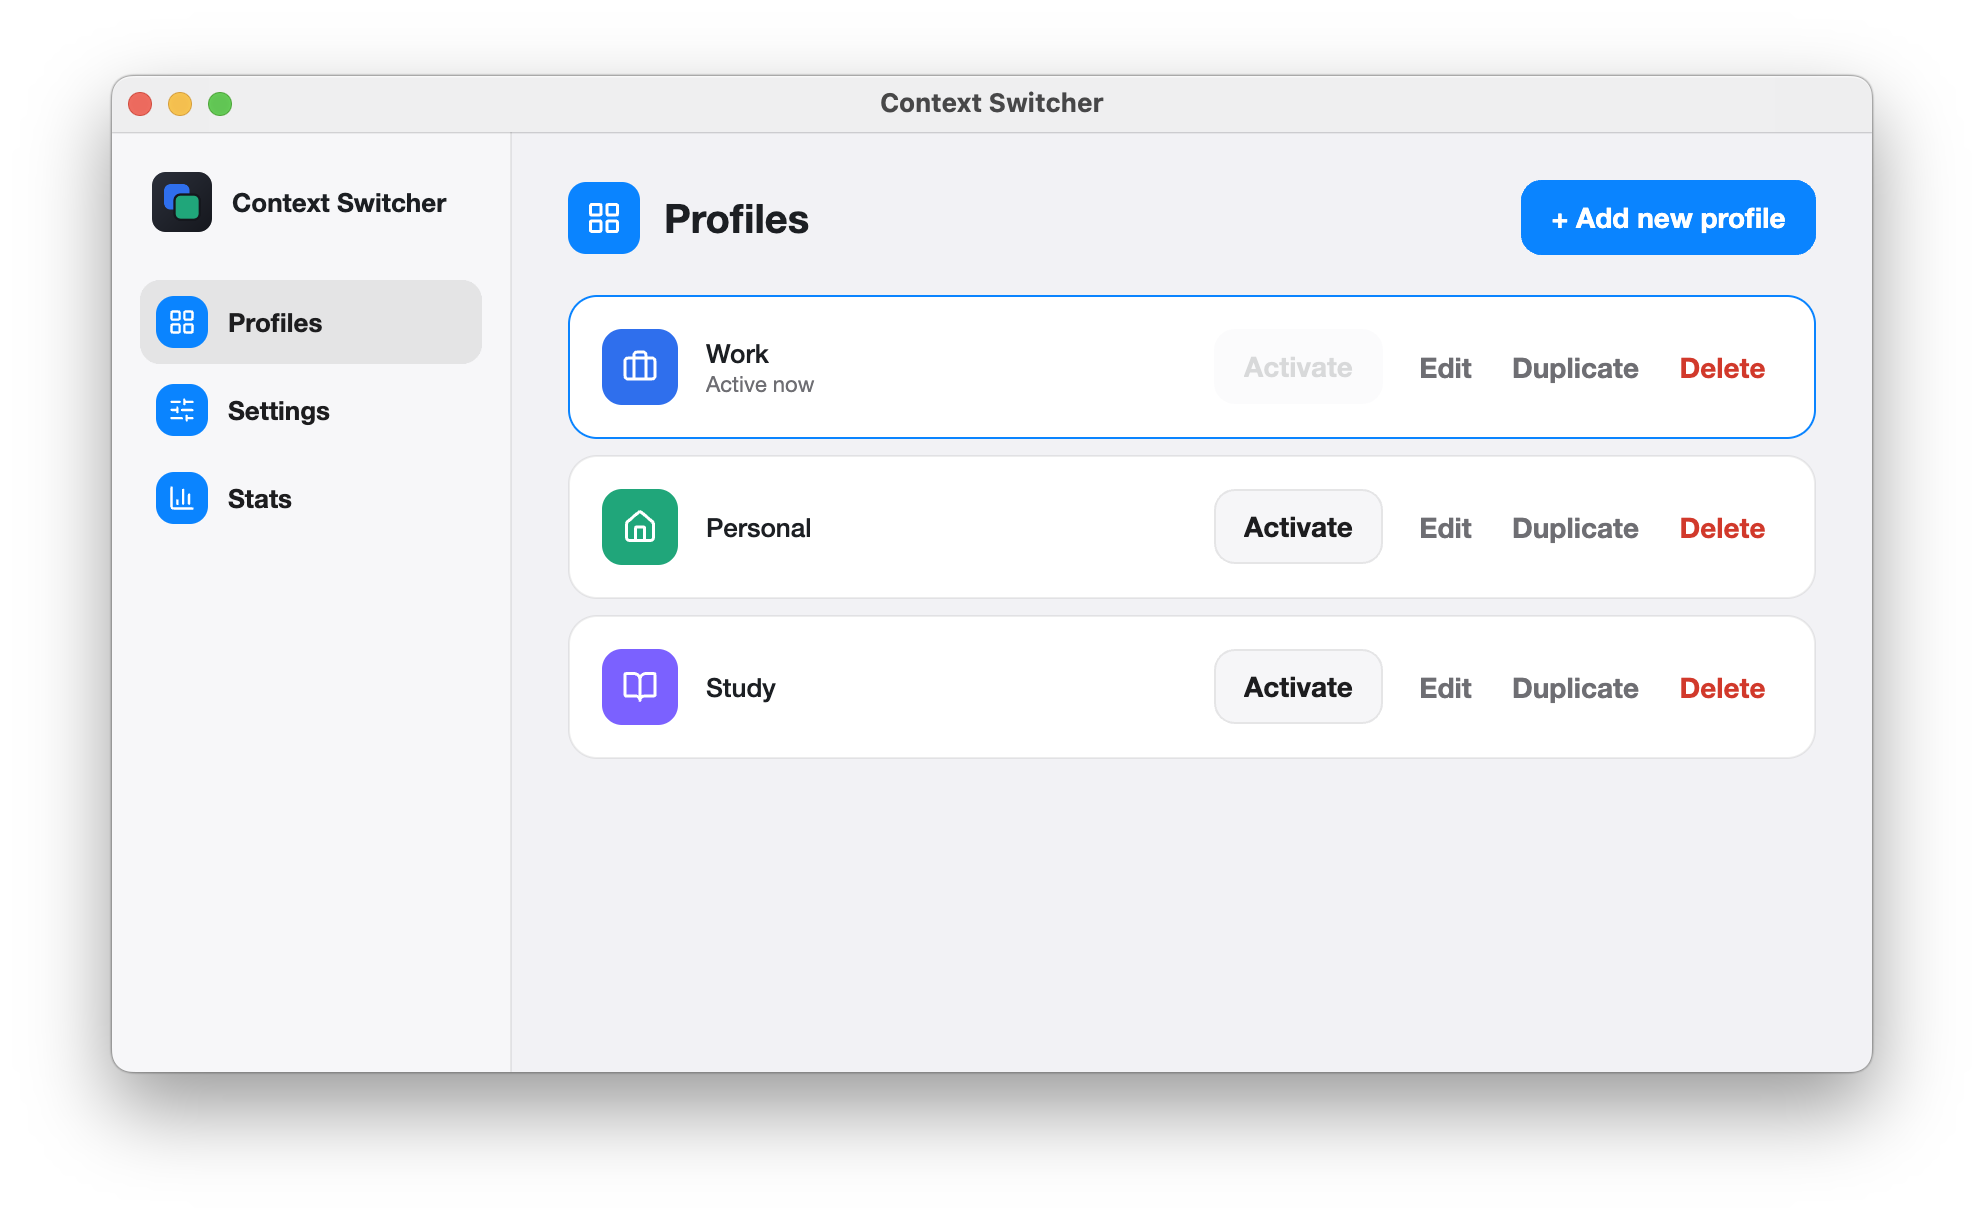
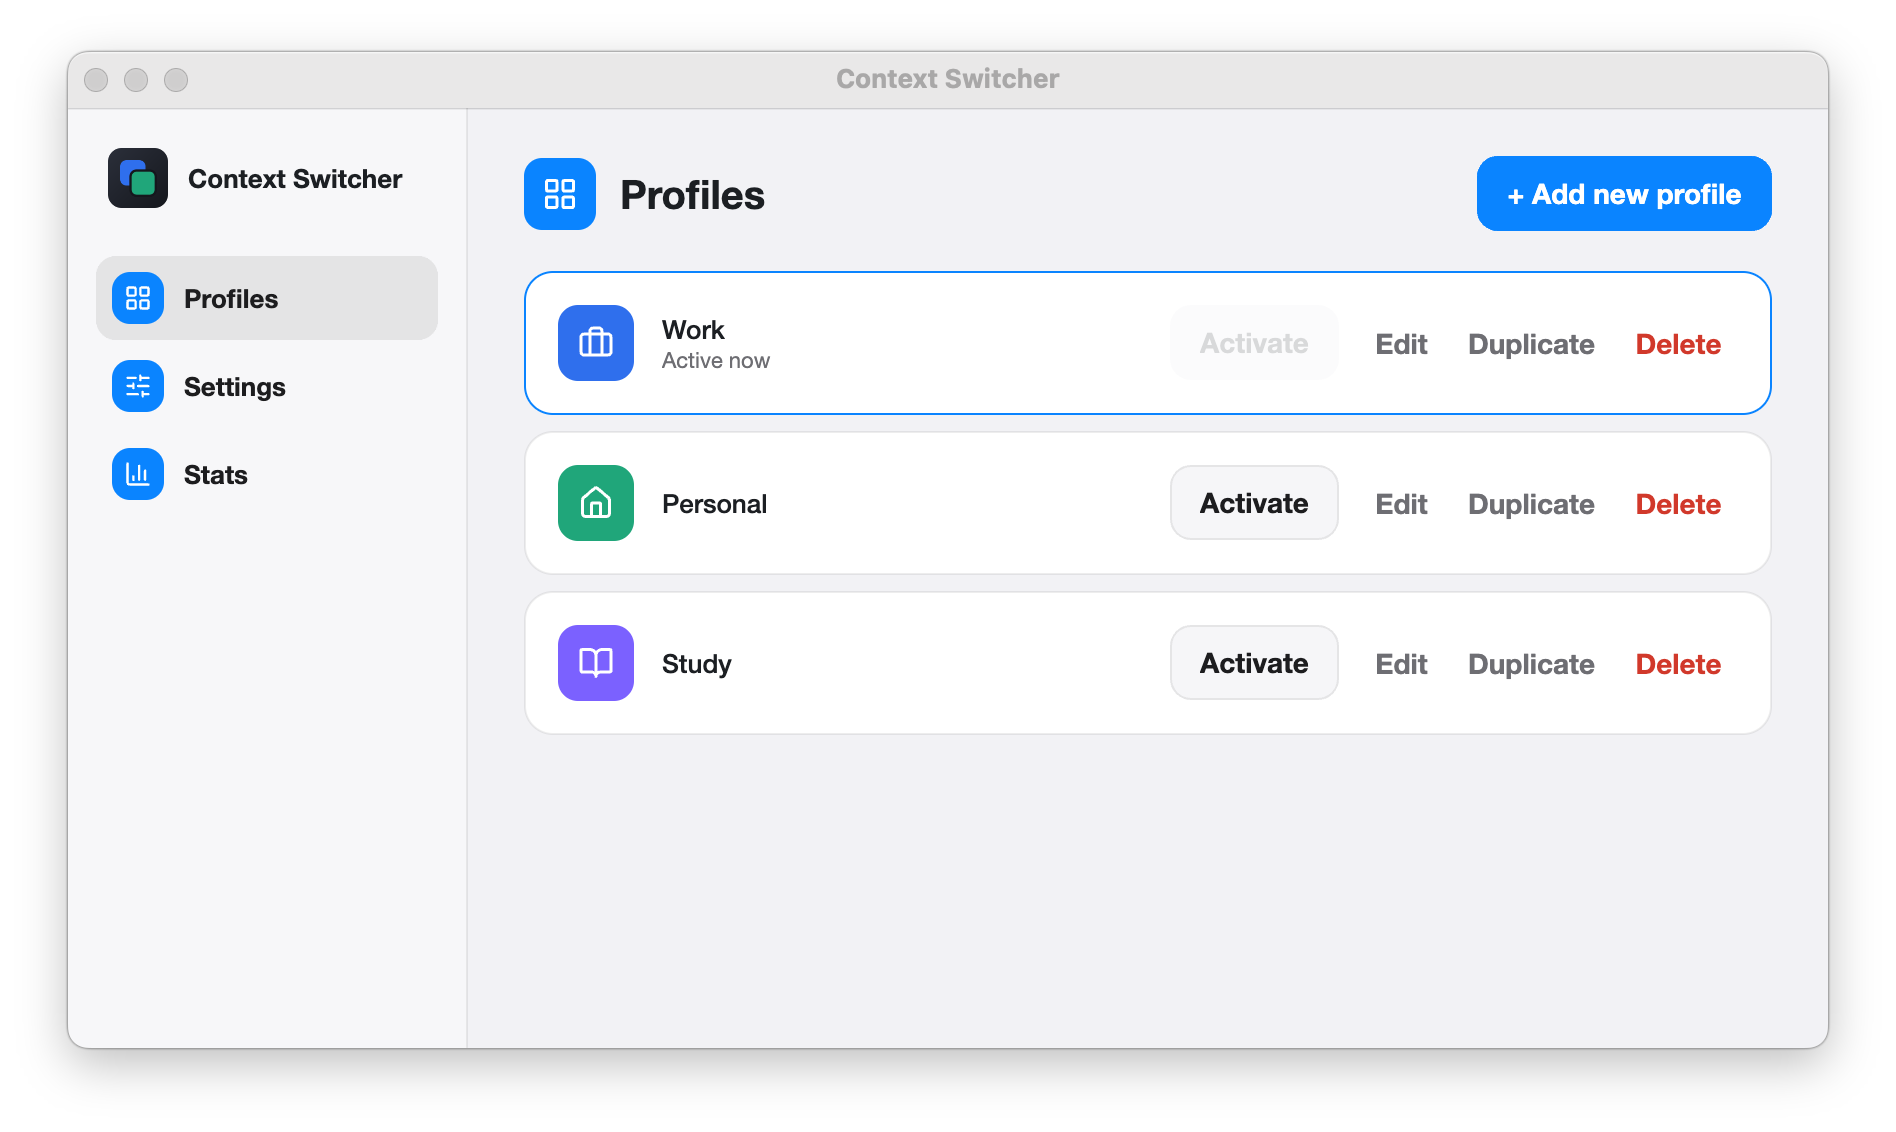
Release 0.2.0: the theme choice, with light and dark screenshots
- Version 0.2.0.
- README: a "Make it yours" step for Settings and its Theme choice, and the
  Profiles and Settings screenshots in light and dark, picked to match the
  reader's own GitHub theme.
- settings.json docs list "appearance"; agent.md notes the theme setting.
- Release notes now offer the Homebrew install as well.

diff --git a/README.md b/README.md
@@ -130,7 +130,10 @@ Dock icon (you can turn one on in Settings).
 The **Profiles** page lists every profile: **Activate** switches to it, **Edit** changes what it does.
 
 <div align="center">
-<img src="docs/images/profiles.png" width="720" alt="The Profiles page with Work, Personal and Study">
+<picture>
+  <source media="(prefers-color-scheme: dark)" srcset="docs/images/profiles-dark.png">
+  <img src="docs/images/profiles.png" width="720" alt="The Profiles page with Work, Personal and Study">
+</picture>
 </div>
 
 Editing a profile is mostly picking from lists: apps from the apps you have installed, web pages
@@ -165,8 +168,16 @@ ContextSwitcher may control that app. Click **OK**. **Settings → Permission** 
 allowed and opens the right page in System Settings if it isn't. More in
 [Permissions](docs/automation-permissions.md).
 
+### 6. Make it yours
+
+**Settings** has the rest: a light or dark **Theme** (or *Match macOS*, the default), whether the
+app shows in the Dock, how long to keep your history, and updates.
+
 <div align="center">
-<img src="docs/images/settings.png" width="720" alt="Settings: Dock icon, permission status, time tracking and updates">
+<picture>
+  <source media="(prefers-color-scheme: dark)" srcset="docs/images/settings-dark.png">
+  <img src="docs/images/settings.png" width="720" alt="Settings: theme, Dock icon, permission status, time tracking and updates">
+</picture>
 </div>
 
 ### When something doesn't go to plan

diff --git a/docs/configuration.md b/docs/configuration.md
@@ -35,6 +35,7 @@ ContextSwitcher validate-config
   "schemaVersion": 1,
   "activeContextId": "work",
   "defaultSwitchTimeoutSeconds": 45,
+  "appearance": "system",
   "showDockIcon": false,
   "checkForUpdates": true,
   "onboardingCompleted": true,
@@ -47,6 +48,7 @@ ContextSwitcher validate-config
 | --- | --- |
 | `schemaVersion` | Always `1` today. |
 | `activeContextId` | Must match a `contexts[].id`. |
+| `appearance` | `system` (follow macOS, the default), `light` or `dark`. Applies at once. |
 | `showDockIcon` | Read once at startup — changing it needs a restart, and the UI says so. |
 | `checkForUpdates` | Looks for a new release on GitHub once a day and offers it; never installs by itself. Absent means on. |
 | `onboardingCompleted` | Absent means "already onboarded", so upgrading never re-runs the wizard. |

diff --git a/agent.md b/agent.md
@@ -1238,7 +1238,9 @@ Typography:
 
 Colors:
 
-- Respect macOS light/dark appearance (unchanged) - `Colors.axaml` is the whole palette, and keeps it
+- Respect macOS light/dark appearance by default; Settings → Theme (`appearance`: `system`, `light`,
+  `dark`) pins one, applied at once by `App.ApplyAppearance` setting `RequestedThemeVariant`. Every
+  colour therefore needs a Light and a Dark value - `Colors.axaml` is the whole palette, and keeps it
   small: neutrals for surfaces, text and lines (`AppBackgroundBrush`, `SidebarBrush`, `CardBrush`,
   `CardHoverBrush`, `SelectedNavBrush`, `BorderBrush`, `DividerBrush`, `TextPrimaryBrush`,
   `TextSecondaryBrush`) per theme; one accent; and three status colours (`SuccessBrush`,

diff --git a/.github/release-notes.md b/.github/release-notes.md
@@ -6,6 +6,12 @@ Paste this into Terminal - it downloads the app, puts it in Applications and ope
 curl -fsSL https://raw.githubusercontent.com/ArtemkaGoldMan/ContextSwitcher/main/install.sh | bash
 ```
 
+Or with [Homebrew](https://brew.sh):
+
+```bash
+brew install --cask artemkagoldman/tap/contextswitcher
+```
+
 Or download `ContextSwitcher-*.dmg` below and drag the app to Applications. ContextSwitcher isn't
 notarised by Apple (that needs a paid developer account), so macOS refuses to open it the first time.
 Allow it once with:
